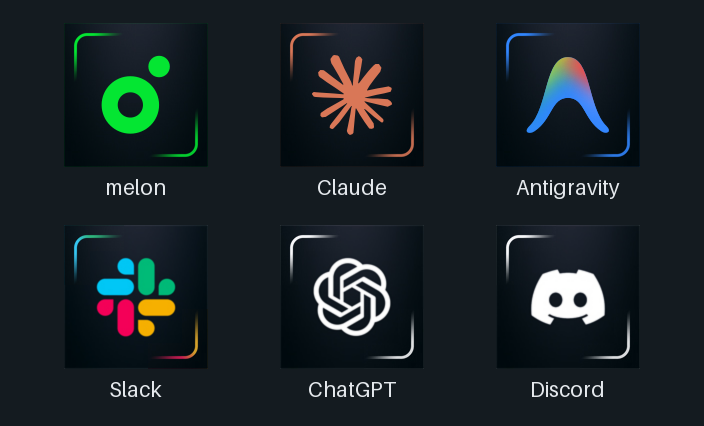
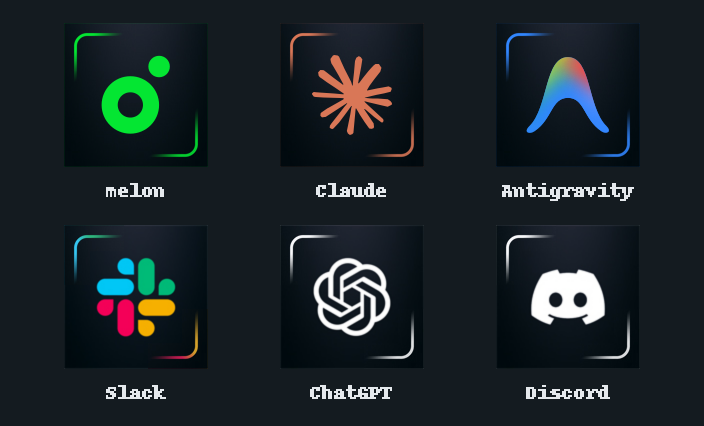
플랫폼별 이미지 인코딩 차이에도 동일한 아이콘 팩 생성

diff --git a/scripts/build.py b/scripts/build.py
@@ -51,16 +51,18 @@ def check_sources(tag=None):
 
 def preview(entries):
     canvas = Image.new("RGB", (704, 426), "#141b20")
-    draw = ImageDraw.Draw(canvas)
-    # Pillow bundles this font, so preview generation is independent of OS fonts.
-    font = ImageFont.load_default(size=21)
+    # This embedded bitmap font uses no FreeType rasterizer or system fonts.
+    font = ImageFont.load_default_imagefont()
     for index, entry in enumerate(entries):
         x, y = 64 + index % 3 * 216, 23 + index // 3 * 202
         with Image.open(PACK / "icons" / entry["path"]) as source:
             icon = source.convert("RGBA")
             canvas.paste(icon, (x, y), icon)
-        draw.text((x + 72, y + 156), entry["name"], font=font,
-                  fill="#e5e9ed", anchor="mt")
+        left, top, right, bottom = font.getbbox(entry["name"])
+        label = Image.new("L", (right - left, bottom - top))
+        ImageDraw.Draw(label).text((-left, -top), entry["name"], font=font, fill=255)
+        label = label.resize((label.width * 2, label.height * 2), Image.Resampling.NEAREST)
+        canvas.paste("#e5e9ed", (x + 72 - label.width // 2, y + 156), label)
     encoded = io.BytesIO()
     canvas.save(encoded, format="PNG", optimize=False)
     return encoded.getvalue()
@@ -69,10 +71,10 @@ def preview(entries):
 def package(destination):
     paths = [PACK / "manifest.json", PACK / "icons.json", PACK / "icon.png", PACK / "license.txt"]
     paths.extend((PACK / "icons").glob("*.png"))
-    with zipfile.ZipFile(destination, "w", compression=zipfile.ZIP_DEFLATED) as archive:
+    with zipfile.ZipFile(destination, "w", compression=zipfile.ZIP_STORED) as archive:
         for path in sorted(paths):
             info = zipfile.ZipInfo(path.relative_to(ROOT).as_posix(), date_time=(2026, 1, 1, 0, 0, 0))
-            info.compress_type = zipfile.ZIP_DEFLATED
+            info.compress_type = zipfile.ZIP_STORED
             info.create_system = 3
             info.external_attr = 0o100644 << 16
             archive.writestr(info, path.read_bytes())
@@ -95,12 +97,16 @@ def main():
     documented = ROOT / "docs" / "preview.png"
     if args.update_preview:
         documented.write_bytes(image)
-    if documented.read_bytes() != image:
-        raise ValueError("미리보기가 원본과 다릅니다. --update-preview로 갱신해 주세요")
+    documented_bytes = documented.read_bytes()
+    # PNG encoders may emit different compressed bytes for identical pixels.
+    # Validate the image, then distribute the exact reviewed repository asset.
+    with Image.open(io.BytesIO(documented_bytes)) as saved, Image.open(io.BytesIO(image)) as generated:
+        if saved.size != generated.size or saved.convert("RGBA").tobytes() != generated.convert("RGBA").tobytes():
+            raise ValueError("미리보기가 원본과 다릅니다. --update-preview로 갱신해 주세요")
     args.output.mkdir(parents=True, exist_ok=True)
     archive = args.output / "local.hexaza.custom.streamDeckIconPack"
     package(archive)
-    (args.output / "preview.png").write_bytes(image)
+    (args.output / "preview.png").write_bytes(documented_bytes)
     checksums = []
     for path in [archive, args.output / "preview.png"]:
         checksums.append(hashlib.sha256(path.read_bytes()).hexdigest() + "  " + path.name)

diff --git a/scripts/test_build.py b/scripts/test_build.py
@@ -1,8 +1,10 @@
+import io
 import json
 from pathlib import Path
 import shutil
 import tempfile
 import unittest
+import zipfile
 from unittest.mock import patch
 
 import build
@@ -41,6 +43,46 @@ class IconValidation(unittest.TestCase):
         Image.new("RGB", (72, 72)).save(self.pack / "icons" / "melon.png")
         with self.assertRaisesRegex(ValueError, "144"):
             build.check_sources()
+
+
+    def preview_fixture(self, wrong_pixel=False):
+        from PIL import Image
+        documented = (build.ROOT / "docs" / "preview.png").read_bytes()
+        root = Path(self.work.name)
+        (root / "docs").mkdir()
+        (root / "docs" / "preview.png").write_bytes(documented)
+        with Image.open(io.BytesIO(documented)) as image:
+            image = image.convert("RGB")
+            if wrong_pixel:
+                image.putpixel((0, 0), (255, 0, 255))
+            output = io.BytesIO()
+            image.save(output, format="PNG", compress_level=0)
+        return root, documented, output.getvalue()
+
+    def test_accepts_equivalent_png_compression_and_ships_documented_bytes(self):
+        root, documented, alternate = self.preview_fixture()
+        self.assertNotEqual(documented, alternate)
+        with patch.object(build, "ROOT", root), patch.object(build, "preview", return_value=alternate), patch("sys.argv", ["build.py"]):
+            build.main()
+        self.assertEqual((root / "dist" / "preview.png").read_bytes(), documented)
+
+    def test_rejects_changed_preview_pixels(self):
+        root, documented, altered = self.preview_fixture(wrong_pixel=True)
+        with patch.object(build, "ROOT", root), patch.object(build, "preview", return_value=altered), patch("sys.argv", ["build.py"]):
+            with self.assertRaisesRegex(ValueError, "미리보기"):
+                build.main()
+
+
+    def test_package_is_deterministic_without_platform_compression(self):
+        root = Path(self.work.name)
+        first, second = root / "first.zip", root / "second.zip"
+        with patch.object(build, "ROOT", root):
+            build.package(first)
+            build.package(second)
+        self.assertEqual(first.read_bytes(), second.read_bytes())
+        with zipfile.ZipFile(first) as archive:
+            self.assertTrue(all(info.compress_type == zipfile.ZIP_STORED for info in archive.infolist()))
+            self.assertTrue(all(info.date_time == (2026, 1, 1, 0, 0, 0) for info in archive.infolist()))
 
 
 if __name__ == "__main__":

diff --git a/README.md b/README.md
@@ -22,7 +22,7 @@ python3 -m venv .venv
 
 `dist/`에 `local.hexaza.custom.streamDeckIconPack`, `preview.png`, `SHA256SUMS.txt`가 생성됩니다. 여섯 아이콘의 이름·파일·144×144 PNG 형식, 미리보기와 원본의 일치, 태그와 manifest 버전, 패키지 내부 파일을 검사합니다. 원본 아이콘의 바이트를 그대로 패키지에 넣습니다.
 
-아이콘을 갱신할 때는 원본 PNG와 `icons.json`을 함께 수정하고 `manifest.json`의 버전을 올린 뒤, 다음 명령으로 미리보기를 갱신해 주세요. 미리보기는 `icons.json` 순서대로 같은 PNG를 배치하고 Pillow 내장 글꼴을 사용하므로 별도 운영체제 글꼴이 필요하지 않습니다.
+아이콘을 갱신할 때는 원본 PNG와 `icons.json`을 함께 수정하고 `manifest.json`의 버전을 올린 뒤, 다음 명령으로 미리보기를 갱신해 주세요. 미리보기는 `icons.json` 순서대로 같은 PNG를 배치하고 Pillow 내장 비트맵 글꼴을 사용하므로 운영체제 글꼴이나 FreeType 렌더링 차이에 영향을 받지 않습니다. 생성된 미리보기는 저장된 이미지와 픽셀 단위로 비교하고, 배포 파일에는 검증된 `docs/preview.png`의 원본 바이트를 넣습니다. 아이콘 팩은 무압축 ZIP과 고정된 파일 메타데이터를 사용해 플랫폼마다 압축 결과가 달라지는 것을 방지합니다.
 
 ```sh
 .venv/bin/python scripts/build.py --update-preview
